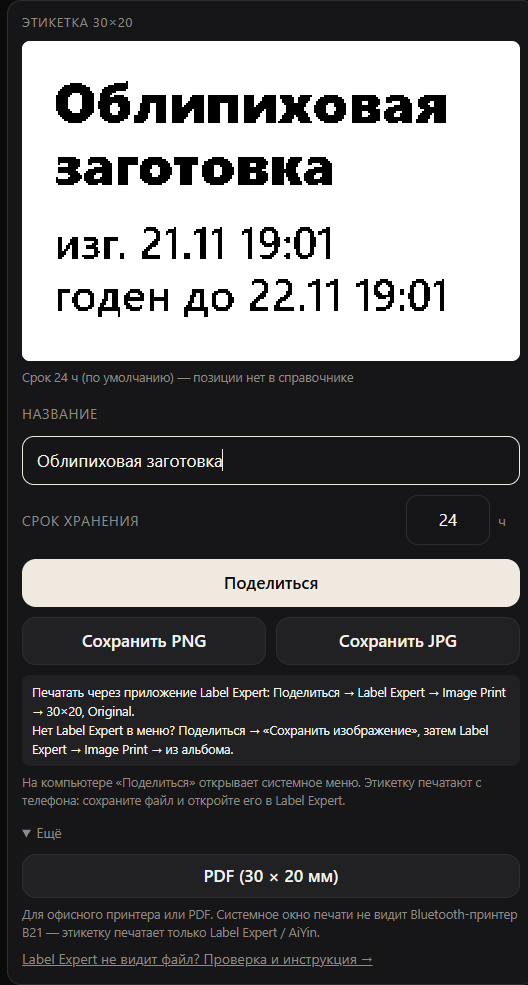
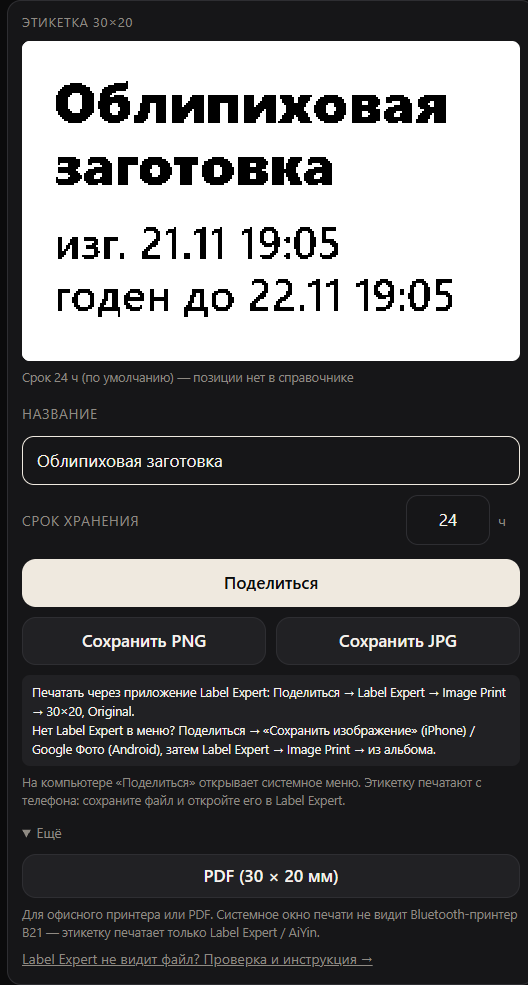
fix(этикетка): в инструкции уточнены iPhone/Android; обновлены скриншоты блока

diff --git a/js/app.js b/js/app.js
@@ -537,7 +537,7 @@ function createLabelBox(opts = {}) {
 
   const howto = h('p', { class: 'label-howto' },
     h('span', { class: 'line' }, 'Печатать через приложение Label Expert: Поделиться → Label Expert → Image Print → 30×20, Original.'),
-    h('span', { class: 'line' }, 'Нет Label Expert в меню? Поделиться → «Сохранить изображение», затем Label Expert → Image Print → из альбома.'));
+    h('span', { class: 'line' }, 'Нет Label Expert в меню? Поделиться → «Сохранить изображение» (iPhone) / Google Фото (Android), затем Label Expert → Image Print → из альбома.'));
 
   const shareHint = !shareOk
     ? h('p', { class: 'label-hint' },
